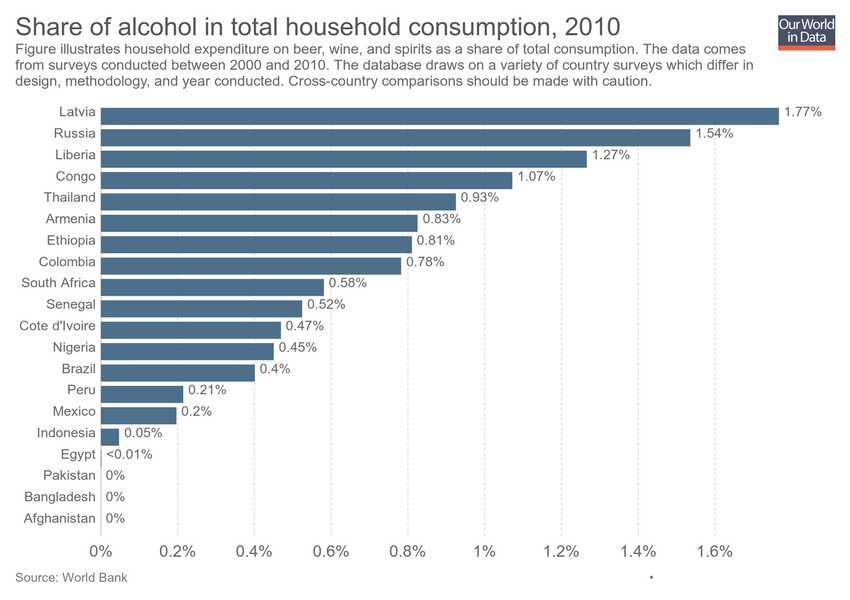
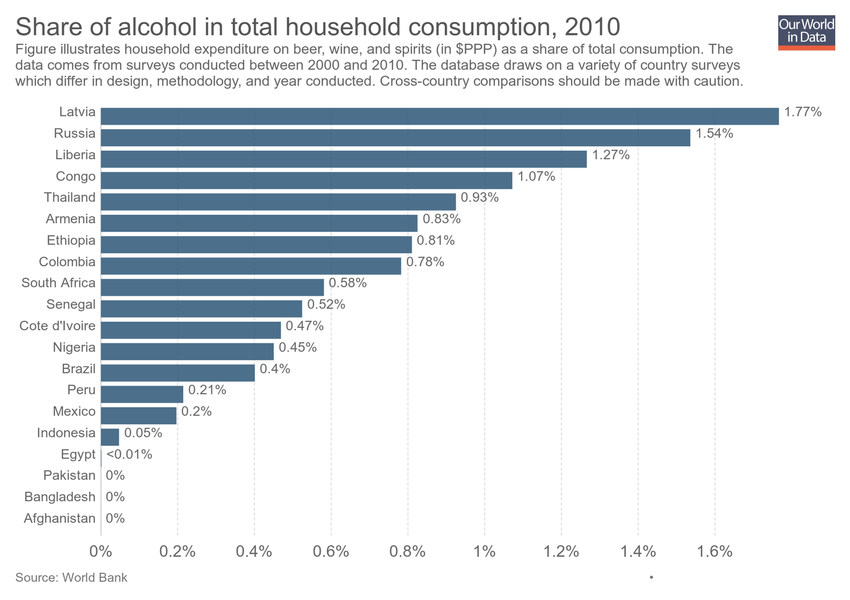
Updating chart share-of-alcohol-in-total-household-consumption

Changed region(s): [[0.0, 0.06, 0.8871, 0.15]]

diff --git a/grapher/share-of-alcohol-in-total-household-consumption.html b/grapher/share-of-alcohol-in-total-household-consumption.html
@@ -1,4 +1,4 @@
-<!doctype html><html><head><meta name="viewport" content="width=device-width, initial-scale=1" /><title>Share of alcohol in total household consumption - Our World in Data</title><meta name="description" content="Figure illustrates household expenditure on beer, wine, and spirits as a share of total consumption. The data comes from surveys conducted between 2000 and 2010. The database draws on a variety of country surveys which differ in design, methodology, and year conducted. Cross-country comparisons should be made with caution." /><link rel="canonical" href="https://ourworldindata.org/grapher/share-of-alcohol-in-total-household-consumption" /><meta property="fb:app_id" content="1149943818390250" /><meta property="og:url" content="https://ourworldindata.org/grapher/share-of-alcohol-in-total-household-consumption" /><meta property="og:title" content="Share of alcohol in total household consumption" /><meta property="og:description" content="Figure illustrates household expenditure on beer, wine, and spirits as a share of total consumption. The data comes from surveys conducted between 2000 and 2010. The database draws on a variety of country surveys which differ in design, methodology, and year conducted. Cross-country comparisons should be made with caution." /><meta property="og:image" content="https://ourworldindata.org/grapher/exports/share-of-alcohol-in-total-household-consumption.png?v=1" /><meta property="og:image:width" content="850" /><meta property="og:image:height" content="600" /><meta property="og:site_name" content="Our World in Data" /><meta name="twitter:card" content="summary_large_image" /><meta name="twitter:site" content="@OurWorldInData" /><meta name="twitter:creator" content="@OurWorldInData" /><meta name="twitter:title" content="Share of alcohol in total household consumption" /><meta name="twitter:description" content="Figure illustrates household expenditure on beer, wine, and spirits as a share of total consumption. The data comes from surveys conducted between 2000 and 2010. The database draws on a variety of country surveys which differ in design, methodology, and year conducted. Cross-country comparisons should be made with caution." /><meta name="twitter:image" content="https://ourworldindata.org/grapher/exports/share-of-alcohol-in-total-household-consumption.png?v=1" /><style>
+<!doctype html><html><head><meta name="viewport" content="width=device-width, initial-scale=1" /><title>Share of alcohol in total household consumption - Our World in Data</title><meta name="description" content="Figure illustrates household expenditure on beer, wine, and spirits (in $PPP) as a share of total consumption. The data comes from surveys conducted between 2000 and 2010. The database draws on a variety of country surveys which differ in design, methodology, and year conducted. Cross-country comparisons should be made with caution." /><link rel="canonical" href="https://ourworldindata.org/grapher/share-of-alcohol-in-total-household-consumption" /><meta property="fb:app_id" content="1149943818390250" /><meta property="og:url" content="https://ourworldindata.org/grapher/share-of-alcohol-in-total-household-consumption" /><meta property="og:title" content="Share of alcohol in total household consumption" /><meta property="og:description" content="Figure illustrates household expenditure on beer, wine, and spirits (in $PPP) as a share of total consumption. The data comes from surveys conducted between 2000 and 2010. The database draws on a variety of country surveys which differ in design, methodology, and year conducted. Cross-country comparisons should be made with caution." /><meta property="og:image" content="https://ourworldindata.org/grapher/exports/share-of-alcohol-in-total-household-consumption.png?v=2" /><meta property="og:image:width" content="850" /><meta property="og:image:height" content="600" /><meta property="og:site_name" content="Our World in Data" /><meta name="twitter:card" content="summary_large_image" /><meta name="twitter:site" content="@OurWorldInData" /><meta name="twitter:creator" content="@OurWorldInData" /><meta name="twitter:title" content="Share of alcohol in total household consumption" /><meta name="twitter:description" content="Figure illustrates household expenditure on beer, wine, and spirits (in $PPP) as a share of total consumption. The data comes from surveys conducted between 2000 and 2010. The database draws on a variety of country surveys which differ in design, methodology, and year conducted. Cross-country comparisons should be made with caution." /><meta name="twitter:image" content="https://ourworldindata.org/grapher/exports/share-of-alcohol-in-total-household-consumption.png?v=2" /><style>
         html, body {
             height: 100%;
             margin: 0;
@@ -20,8 +20,8 @@
         }
     </style><noscript><style>
                     figure { display: none !important; }
-                </style></noscript><link rel="stylesheet" href="https://ourworldindata.org/grapher/assets/commons.bundle.dcbbe53805c487d5e57617b10ac73a8a.css" /><link rel="preload" href="/grapher/data/variables/97477.json?v=1" as="fetch" crossorigin /></head><body class="singleChart"><figure data-grapher-src="/grapher/share-of-alcohol-in-total-household-consumption"></figure><noscript id="fallback"><img src="/grapher/exports/share-of-alcohol-in-total-household-consumption.svg" /><p>Interactive visualization requires JavaScript</p></noscript><script src="https://cdn.polyfill.io/v2/polyfill.min.js?features=es6,fetch"></script><script src="https://ourworldindata.org/grapher/assets/commons.bundle.db4e4065dcbf33bcd3d7.js"></script><script src="https://ourworldindata.org/grapher/assets/charts.bundle.db4e4065dcbf33bcd3d7.js"></script><script>
-        var jsonConfig = {"map":{"projection":"World","colorSchemeLabels":[],"colorSchemeValues":[],"customNumericColors":[],"customCategoryColors":{},"customCategoryLabels":{},"customHiddenCategories":{}},"tab":"chart","slug":"share-of-alcohol-in-total-household-consumption","type":"DiscreteBar","title":"Share of alcohol in total household consumption","xAxis":{"scaleType":"linear"},"yAxis":{"min":0,"scaleType":"linear"},"version":1,"subtitle":"Figure illustrates household expenditure on beer, wine, and spirits as a share of total consumption. The data comes from surveys conducted between 2000 and 2010. The database draws on a variety of country surveys which differ in design, methodology, and year conducted. Cross-country comparisons should be made with caution.","hasMapTab":false,"stackMode":"absolute","dimensions":[{"display":{},"property":"y","variableId":97477}],"isAutoSlug":true,"hasChartTab":true,"isPublished":true,"selectedData":[{"index":0,"entityId":89},{"index":0,"entityId":65},{"index":0,"entityId":103},{"index":0,"entityId":37},{"index":0,"entityId":22},{"index":0,"entityId":28},{"index":0,"entityId":122},{"index":0,"entityId":12},{"index":0,"entityId":81},{"index":0,"entityId":97},{"index":0,"entityId":113},{"index":0,"entityId":101},{"index":0,"entityId":121},{"index":0,"entityId":136},{"index":0,"entityId":158},{"index":0,"entityId":143},{"index":0,"entityId":170},{"index":0,"entityId":168},{"index":0,"entityId":15},{"index":0,"entityId":75}],"addCountryMode":"add-country","id":2683};
+                </style></noscript><link rel="stylesheet" href="https://ourworldindata.org/grapher/assets/commons.bundle.dcbbe53805c487d5e57617b10ac73a8a.css" /><link rel="preload" href="/grapher/data/variables/97477.json?v=2" as="fetch" crossorigin /></head><body class="singleChart"><figure data-grapher-src="/grapher/share-of-alcohol-in-total-household-consumption"></figure><noscript id="fallback"><img src="/grapher/exports/share-of-alcohol-in-total-household-consumption.svg" /><p>Interactive visualization requires JavaScript</p></noscript><script src="https://cdn.polyfill.io/v2/polyfill.min.js?features=es6,fetch"></script><script src="https://ourworldindata.org/grapher/assets/commons.bundle.db4e4065dcbf33bcd3d7.js"></script><script src="https://ourworldindata.org/grapher/assets/charts.bundle.db4e4065dcbf33bcd3d7.js"></script><script>
+        var jsonConfig = {"id":2683,"map":{"projection":"World","colorSchemeLabels":[],"colorSchemeValues":[],"customNumericColors":[],"customCategoryColors":{},"customCategoryLabels":{},"customHiddenCategories":{}},"tab":"chart","slug":"share-of-alcohol-in-total-household-consumption","type":"DiscreteBar","title":"Share of alcohol in total household consumption","xAxis":{"scaleType":"linear"},"yAxis":{"min":0,"scaleType":"linear"},"version":2,"subtitle":"Figure illustrates household expenditure on beer, wine, and spirits (in $PPP) as a share of total consumption. The data comes from surveys conducted between 2000 and 2010. The database draws on a variety of country surveys which differ in design, methodology, and year conducted. Cross-country comparisons should be made with caution.","hasMapTab":false,"stackMode":"absolute","dimensions":[{"display":{},"property":"y","variableId":97477}],"hasChartTab":true,"isPublished":true,"selectedData":[{"index":0,"entityId":89},{"index":0,"entityId":65},{"index":0,"entityId":103},{"index":0,"entityId":37},{"index":0,"entityId":22},{"index":0,"entityId":28},{"index":0,"entityId":122},{"index":0,"entityId":12},{"index":0,"entityId":81},{"index":0,"entityId":97},{"index":0,"entityId":113},{"index":0,"entityId":101},{"index":0,"entityId":121},{"index":0,"entityId":136},{"index":0,"entityId":158},{"index":0,"entityId":143},{"index":0,"entityId":170},{"index":0,"entityId":168},{"index":0,"entityId":15},{"index":0,"entityId":75}],"addCountryMode":"add-country"};
         var figure = document.getElementsByTagName("figure")[0];
         try {
             window.App = {};

diff --git a/grapher/child-mortality-sdgs.html b/grapher/child-mortality-sdgs.html
@@ -1,4 +1,4 @@
-<!doctype html><html><head><meta name="viewport" content="width=device-width, initial-scale=1" /><title>Child mortality, historic and projections - Our World in Data</title><meta name="description" content="Under-five mortality rate is the probability per 1,000 that a newborn baby will die before reaching age five, if subject to age-specific mortality rates of the specified year. National projections through to 2030 are also shown. SDG Target 3.2 is to reduce under‑5 mortality to at least as low as 25 per 1,000 live births." /><link rel="canonical" href="https://ourworldindata.org/grapher/child-mortality-sdgs" /><meta property="fb:app_id" content="1149943818390250" /><meta property="og:url" content="https://ourworldindata.org/grapher/child-mortality-sdgs" /><meta property="og:title" content="Child mortality, historic and projections" /><meta property="og:description" content="Under-five mortality rate is the probability per 1,000 that a newborn baby will die before reaching age five, if subject to age-specific mortality rates of the specified year. National projections through to 2030 are also shown. SDG Target 3.2 is to reduce under‑5 mortality to at least as low as 25 per 1,000 live births." /><meta property="og:image" content="https://ourworldindata.org/grapher/exports/child-mortality-sdgs.png?v=1" /><meta property="og:image:width" content="850" /><meta property="og:image:height" content="600" /><meta property="og:site_name" content="Our World in Data" /><meta name="twitter:card" content="summary_large_image" /><meta name="twitter:site" content="@OurWorldInData" /><meta name="twitter:creator" content="@OurWorldInData" /><meta name="twitter:title" content="Child mortality, historic and projections" /><meta name="twitter:description" content="Under-five mortality rate is the probability per 1,000 that a newborn baby will die before reaching age five, if subject to age-specific mortality rates of the specified year. National projections through to 2030 are also shown. SDG Target 3.2 is to reduce under‑5 mortality to at least as low as 25 per 1,000 live births." /><meta name="twitter:image" content="https://ourworldindata.org/grapher/exports/child-mortality-sdgs.png?v=1" /><style>
+<!doctype html><html><head><meta name="viewport" content="width=device-width, initial-scale=1" /><title>Child mortality rate per 1,000 live births - Our World in Data</title><meta name="description" content="Under-five mortality rate is the probability per 1,000 that a newborn baby will die before reaching age five, if subject to age-specific mortality rates of the specified year. SDG Target 3.1 is to reduce child mortality to at least as low as 25 per 1,000 live births by 2030." /><link rel="canonical" href="https://ourworldindata.org/grapher/child-mortality-sdgs" /><meta property="fb:app_id" content="1149943818390250" /><meta property="og:url" content="https://ourworldindata.org/grapher/child-mortality-sdgs" /><meta property="og:title" content="Child mortality rate per 1,000 live births" /><meta property="og:description" content="Under-five mortality rate is the probability per 1,000 that a newborn baby will die before reaching age five, if subject to age-specific mortality rates of the specified year. SDG Target 3.1 is to reduce child mortality to at least as low as 25 per 1,000 live births by 2030." /><meta property="og:image" content="https://ourworldindata.org/grapher/exports/child-mortality-sdgs.png?v=3" /><meta property="og:image:width" content="850" /><meta property="og:image:height" content="600" /><meta property="og:site_name" content="Our World in Data" /><meta name="twitter:card" content="summary_large_image" /><meta name="twitter:site" content="@OurWorldInData" /><meta name="twitter:creator" content="@OurWorldInData" /><meta name="twitter:title" content="Child mortality rate per 1,000 live births" /><meta name="twitter:description" content="Under-five mortality rate is the probability per 1,000 that a newborn baby will die before reaching age five, if subject to age-specific mortality rates of the specified year. SDG Target 3.1 is to reduce child mortality to at least as low as 25 per 1,000 live births by 2030." /><meta name="twitter:image" content="https://ourworldindata.org/grapher/exports/child-mortality-sdgs.png?v=3" /><style>
         html, body {
             height: 100%;
             margin: 0;
@@ -20,8 +20,8 @@
         }
     </style><noscript><style>
                     figure { display: none !important; }
-                </style></noscript><link rel="stylesheet" href="https://ourworldindata.org/grapher/assets/commons.bundle.dcbbe53805c487d5e57617b10ac73a8a.css" /><link rel="preload" href="/grapher/data/variables/96524+96525.json?v=1" as="fetch" crossorigin /></head><body class="singleChart"><figure data-grapher-src="/grapher/child-mortality-sdgs"></figure><noscript id="fallback"><img src="/grapher/exports/child-mortality-sdgs.svg" /><p>Interactive visualization requires JavaScript</p></noscript><script src="https://cdn.polyfill.io/v2/polyfill.min.js?features=es6,fetch"></script><script src="https://ourworldindata.org/grapher/assets/commons.bundle.db4e4065dcbf33bcd3d7.js"></script><script src="https://ourworldindata.org/grapher/assets/charts.bundle.db4e4065dcbf33bcd3d7.js"></script><script>
-        var jsonConfig = {"map":{"projection":"World","targetYear":2030,"variableId":96525,"equalSizeBins":true,"isManualBuckets":true,"colorSchemeLabels":["Target met","Still to meet"],"colorSchemeValues":[26,1000],"customColorsActive":true,"colorSchemeMinValue":0,"customNumericColors":["#2a939b","#ca2628"],"customCategoryColors":{},"customCategoryLabels":{},"customHiddenCategories":{}},"tab":"chart","slug":"child-mortality-sdgs","type":"LineChart","title":"Child mortality, historic and projections","xAxis":{"scaleType":"linear"},"yAxis":{"min":0,"scaleType":"linear"},"version":1,"subtitle":"Under-five mortality rate is the probability per 1,000 that a newborn baby will die before reaching age five, if subject to age-specific mortality rates of the specified year. National projections through to 2030 are also shown. SDG Target 3.2 is to reduce under‑5 mortality to at least as low as 25 per 1,000 live births.","hasMapTab":true,"stackMode":"absolute","dimensions":[{"display":{"name":"Historic trend to date","numDecimalPlaces":0},"property":"y","variableId":96524},{"display":{"name":"Current projections to 2030","numDecimalPlaces":0},"property":"y","variableId":96525}],"sourceDesc":"Institute of Health Metrics & Evaluation (IHME)","hasChartTab":true,"isPublished":true,"selectedData":[{"index":0,"entityId":171},{"index":1,"entityId":171}],"addCountryMode":"change-country","id":2518};
+                </style></noscript><link rel="stylesheet" href="https://ourworldindata.org/grapher/assets/commons.bundle.dcbbe53805c487d5e57617b10ac73a8a.css" /><link rel="preload" href="/grapher/data/variables/3398.json?v=3" as="fetch" crossorigin /></head><body class="singleChart"><figure data-grapher-src="/grapher/child-mortality-sdgs"></figure><noscript id="fallback"><img src="/grapher/exports/child-mortality-sdgs.svg" /><p>Interactive visualization requires JavaScript</p></noscript><script src="https://cdn.polyfill.io/v2/polyfill.min.js?features=es6,fetch"></script><script src="https://ourworldindata.org/grapher/assets/commons.bundle.db4e4065dcbf33bcd3d7.js"></script><script src="https://ourworldindata.org/grapher/assets/charts.bundle.db4e4065dcbf33bcd3d7.js"></script><script>
+        var jsonConfig = {"id":2653,"map":{"projection":"World","targetYear":2015,"variableId":3398,"equalSizeBins":true,"baseColorScheme":"YlOrRd","isManualBuckets":true,"colorSchemeLabels":["Target reached","1.5x target","2x target","3x target","4x target","5x target",null],"colorSchemeValues":[25.1,37.5,50,75,100,125],"customColorsActive":true,"customNumericColors":["#9ecc8a",null,null,null,null,null],"customCategoryColors":{},"customCategoryLabels":{},"customHiddenCategories":{}},"tab":"map","slug":"child-mortality-sdgs","type":"LineChart","title":"Child mortality rate per 1,000 live births","xAxis":{"scaleType":"linear"},"yAxis":{"min":0,"scaleType":"linear"},"version":3,"subtitle":"Under-five mortality rate is the probability per 1,000 that a newborn baby will die before reaching age five, if subject to age-specific mortality rates of the specified year. SDG Target 3.1 is to reduce child mortality to at least as low as 25 per 1,000 live births by 2030.","hasMapTab":true,"stackMode":"absolute","dimensions":[{"display":{"unit":"deaths per 1,000 live births","conversionFactor":1},"property":"y","variableId":3398}],"hasChartTab":true,"isPublished":true,"selectedData":[{"index":0,"entityId":355},{"index":0,"entityId":137},{"index":0,"entityId":37},{"index":0,"entityId":60},{"index":0,"entityId":78},{"index":0,"entityId":28}],"internalNotes":"For SDG Tracker","addCountryMode":"add-country","comparisonLine":{"label":"SDG Target 3.1 (25 per 1,000)","yEquals":"25"}};
         var figure = document.getElementsByTagName("figure")[0];
         try {
             window.App = {};
